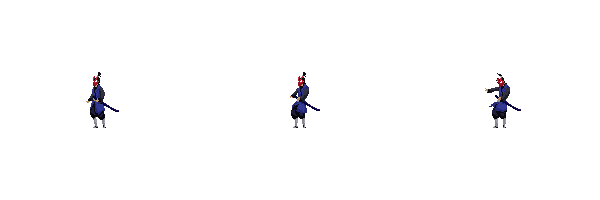
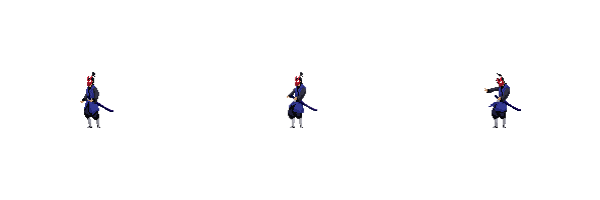
Player Sprite - Attack Done

diff --git a/classes/Fighter.js b/classes/Fighter.js
@@ -2,7 +2,7 @@ import { context, canvas, gravity } from '../index.js';
 import { Sprite } from './Sprite.js';
 
 export class Fighter extends Sprite {
-	constructor({ position, velocity, color = 'red', imageSrc, scale = 1, framesMax = 1, offset = { x: 0, y: 0 }, sprites }) {
+	constructor({ position, velocity, color = 'red', imageSrc, scale = 1, framesMax = 1, offset = { x: 0, y: 0 }, sprites, attackStyle }) {
 		super({
 			position,
 			imageSrc,
@@ -31,6 +31,7 @@ export class Fighter extends Sprite {
 		this.framesElapsed = 0;
 		this.framesHold = 9;
 		this.sprites = sprites;
+		this.attackStyle = attackStyle; //
 
 		for (const sprite in this.sprites) {
 			sprites[sprite].image = new Image();
@@ -57,6 +58,7 @@ export class Fighter extends Sprite {
 	}
 
 	attack() {
+		this.switchSprite('attack1Right');
 		this.isAttacking = true;
 
 		setTimeout(() => {
@@ -65,6 +67,8 @@ export class Fighter extends Sprite {
 	}
 
 	switchSprite(sprite) {
+		if (this.image === this.sprites.attack1Right.image && this.framesCurrent < this.sprites.attack1Right.frames - 1) return;
+
 		switch (sprite) {
 			case 'idleRight':
 				if (this.image !== this.sprites.idleRight.image) {
@@ -119,6 +123,13 @@ export class Fighter extends Sprite {
 				if (this.image !== this.sprites.fallLeft.image) {
 					this.image = this.sprites.fallLeft.image;
 					this.framesMax = this.sprites.fallLeft.framesMax;
+					this.framesCurrent = 0;
+				}
+				break;
+			case 'attack1Right':
+				if (this.image !== this.sprites.attack1Right.image) {
+					this.image = this.sprites.attack1Right.image;
+					this.framesMax = this.sprites.attack1Right.framesMax;
 					this.framesCurrent = 0;
 				}
 				break;

diff --git a/index.js b/index.js
@@ -77,6 +77,14 @@ export const player = new Fighter({
 			imageSrc: './warriorImages/samuraiMack/Fall-Left.png',
 			framesMax: 2,
 		},
+		attack1Right: {
+			imageSrc: './warriorImages/samuraiMack/Attack1-Right.png',
+			framesMax: 6,
+		},
+		attack2Right: {
+			imageSrc: './warriorImages/samuraiMack/Attack2-Right.png',
+			framesMax: 6,
+		},
 	},
 });
 
